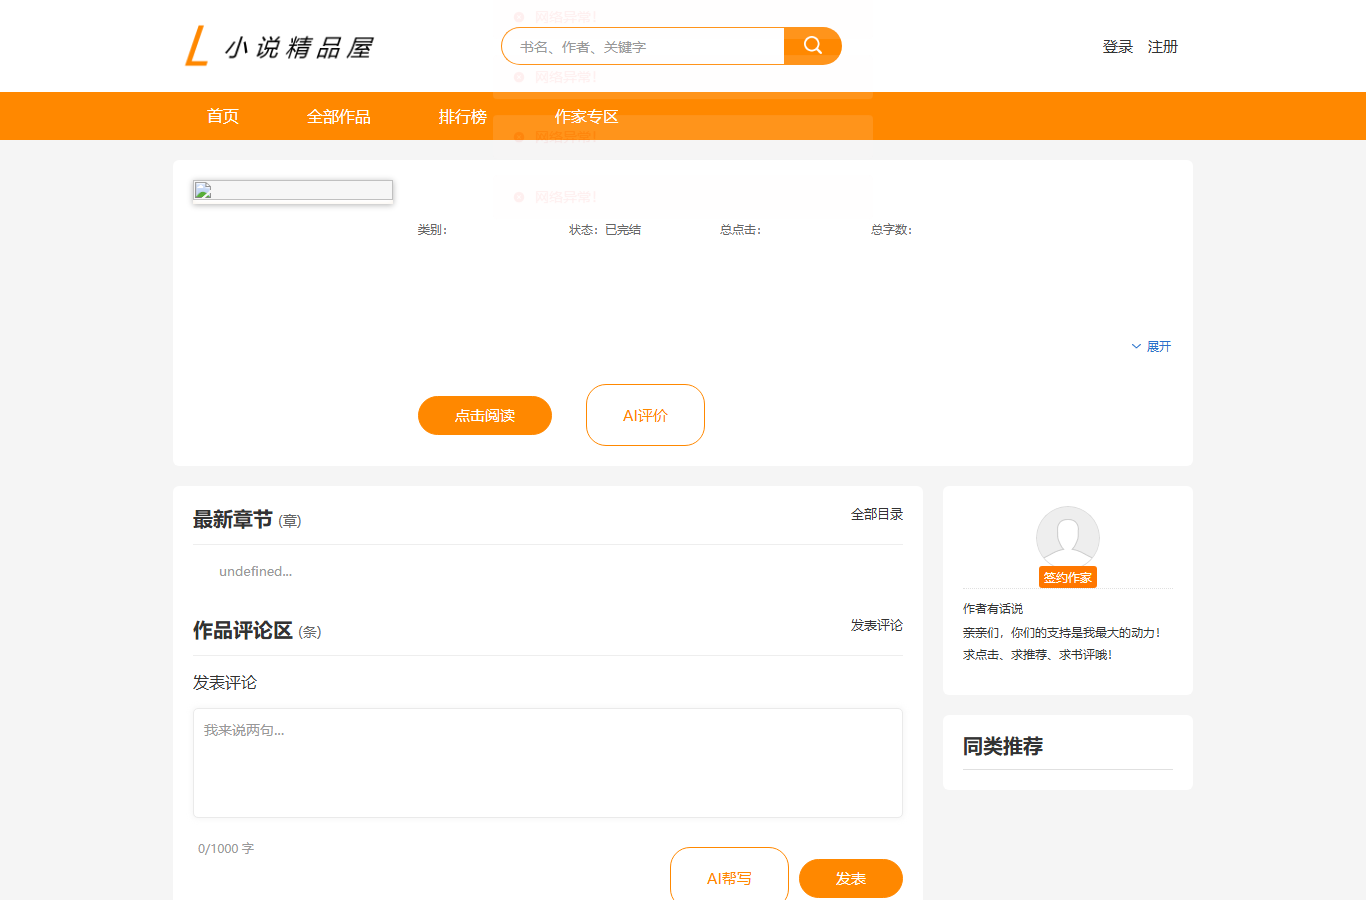
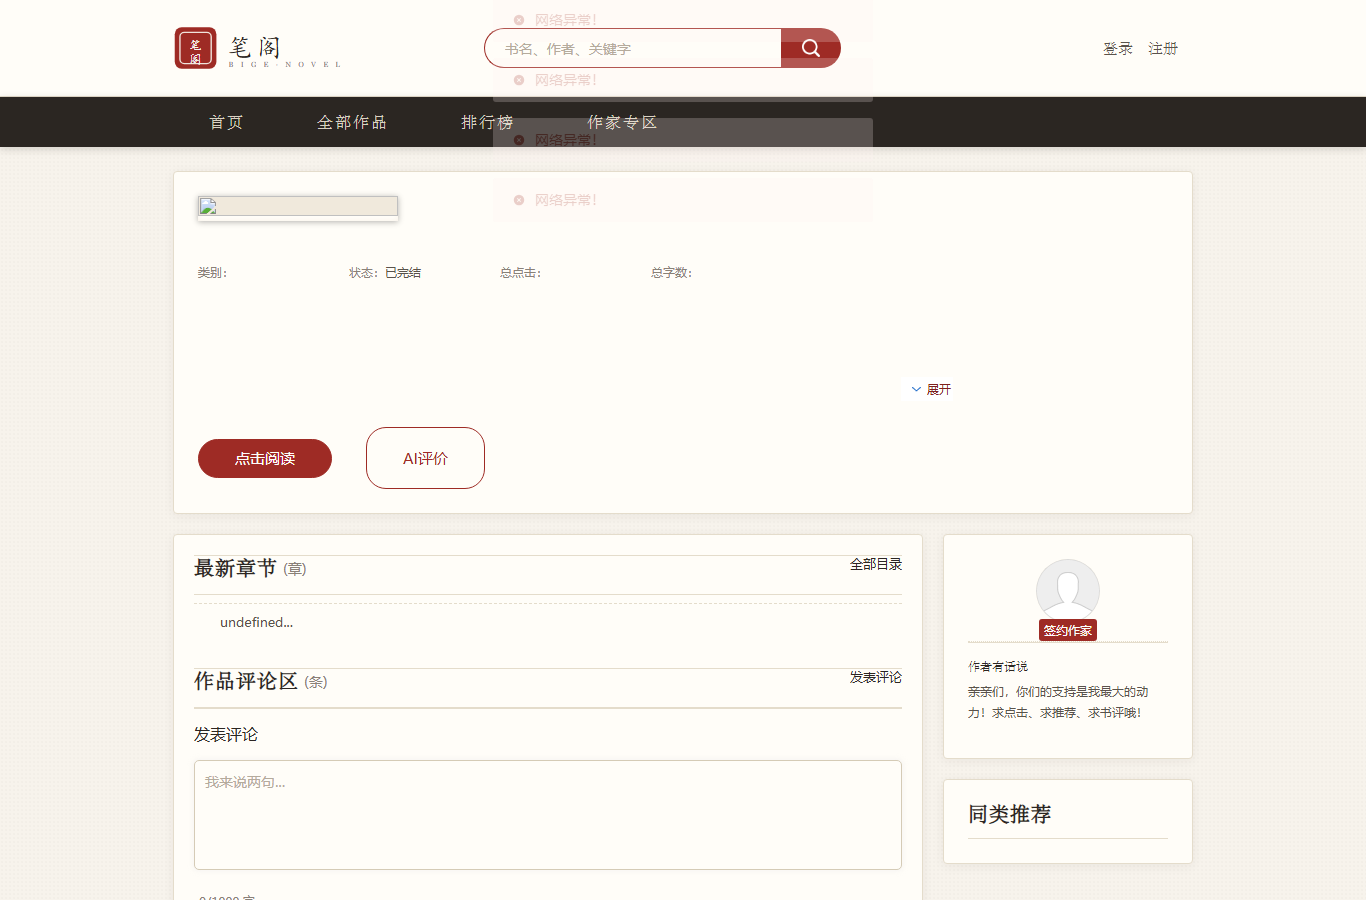
docs: update screenshots for redesigned UI

diff --git a/README.md b/README.md
@@ -1,6 +1,6 @@
 <p align="center">
-  <h1 align="center">Novel — 小说门户系统</h1>
-  <p align="center">Spring Boot 3 + Vue 3 前后端分离 · 集成 AI 能力</p>
+  <h1 align="center">笔阁 — 新中式小说门户</h1>
+  <p align="center">Spring Boot 3 + Vue 3 前后端分离 · 集成 AI 能力 · 新中式国风 UI</p>
 </p>
 
 <p align="center">
@@ -16,12 +16,13 @@
 
 ## 项目简介
 
-一套**前后端分离**的网络小说系统，基于 Spring Boot 3 + Vue 3 构建，涵盖小说推荐、排行榜、阅读、评论、作家专区等功能，并深度集成 **Spring AI** 实现智能书评、章节导读、AI 荐书等能力。
+一套**前后端分离**的网络小说系统「笔阁」，基于 Spring Boot 3 + Vue 3 构建，采用**新中式国风设计**(印章 logo、朱砂色板、宣纸质感)，涵盖小说推荐、排行榜、阅读、评论、作家专区等功能，并深度集成 **Spring AI** 实现智能书评、章节导读、AI 荐书等能力。
 
 > 原项目 [novel](https://github.com/201206030/novel) 为学习型项目，本仓库在其基础之上：
-> - 规范化项目布局(monorepo + 统一 .gitignore)
+> - 前端全站重构：新中式国风 UI(设计规范见 `designs/novel-redesign.md`)
 > - 新增 **4 个 AI 门户功能**(书评/导读/评论草稿/智能荐书)
-> - 补齐 Docker + CI/CD + 开发文档
+> - 规范化项目布局(monorepo + 统一 .gitignore) + Docker + CI/CD + 开发文档
+> - 内置演示数据生成器(100 用户 / 3000 评论 / 新闻)
 
 ## 功能一览
 
@@ -41,9 +42,9 @@
 |------|----------|
 | ![首页](docs/screenshots/home.png) | ![书详情](docs/screenshots/book_detail.png) |
 
-| 阅读页 |
-|--------|
-| ![阅读页](docs/screenshots/reading.png) |
+| 阅读页 | 排行榜 |
+|--------|--------|
+| ![阅读页](docs/screenshots/reading.png) | ![排行榜](docs/screenshots/book_rank.png) |
 
 ## 技术栈
 
